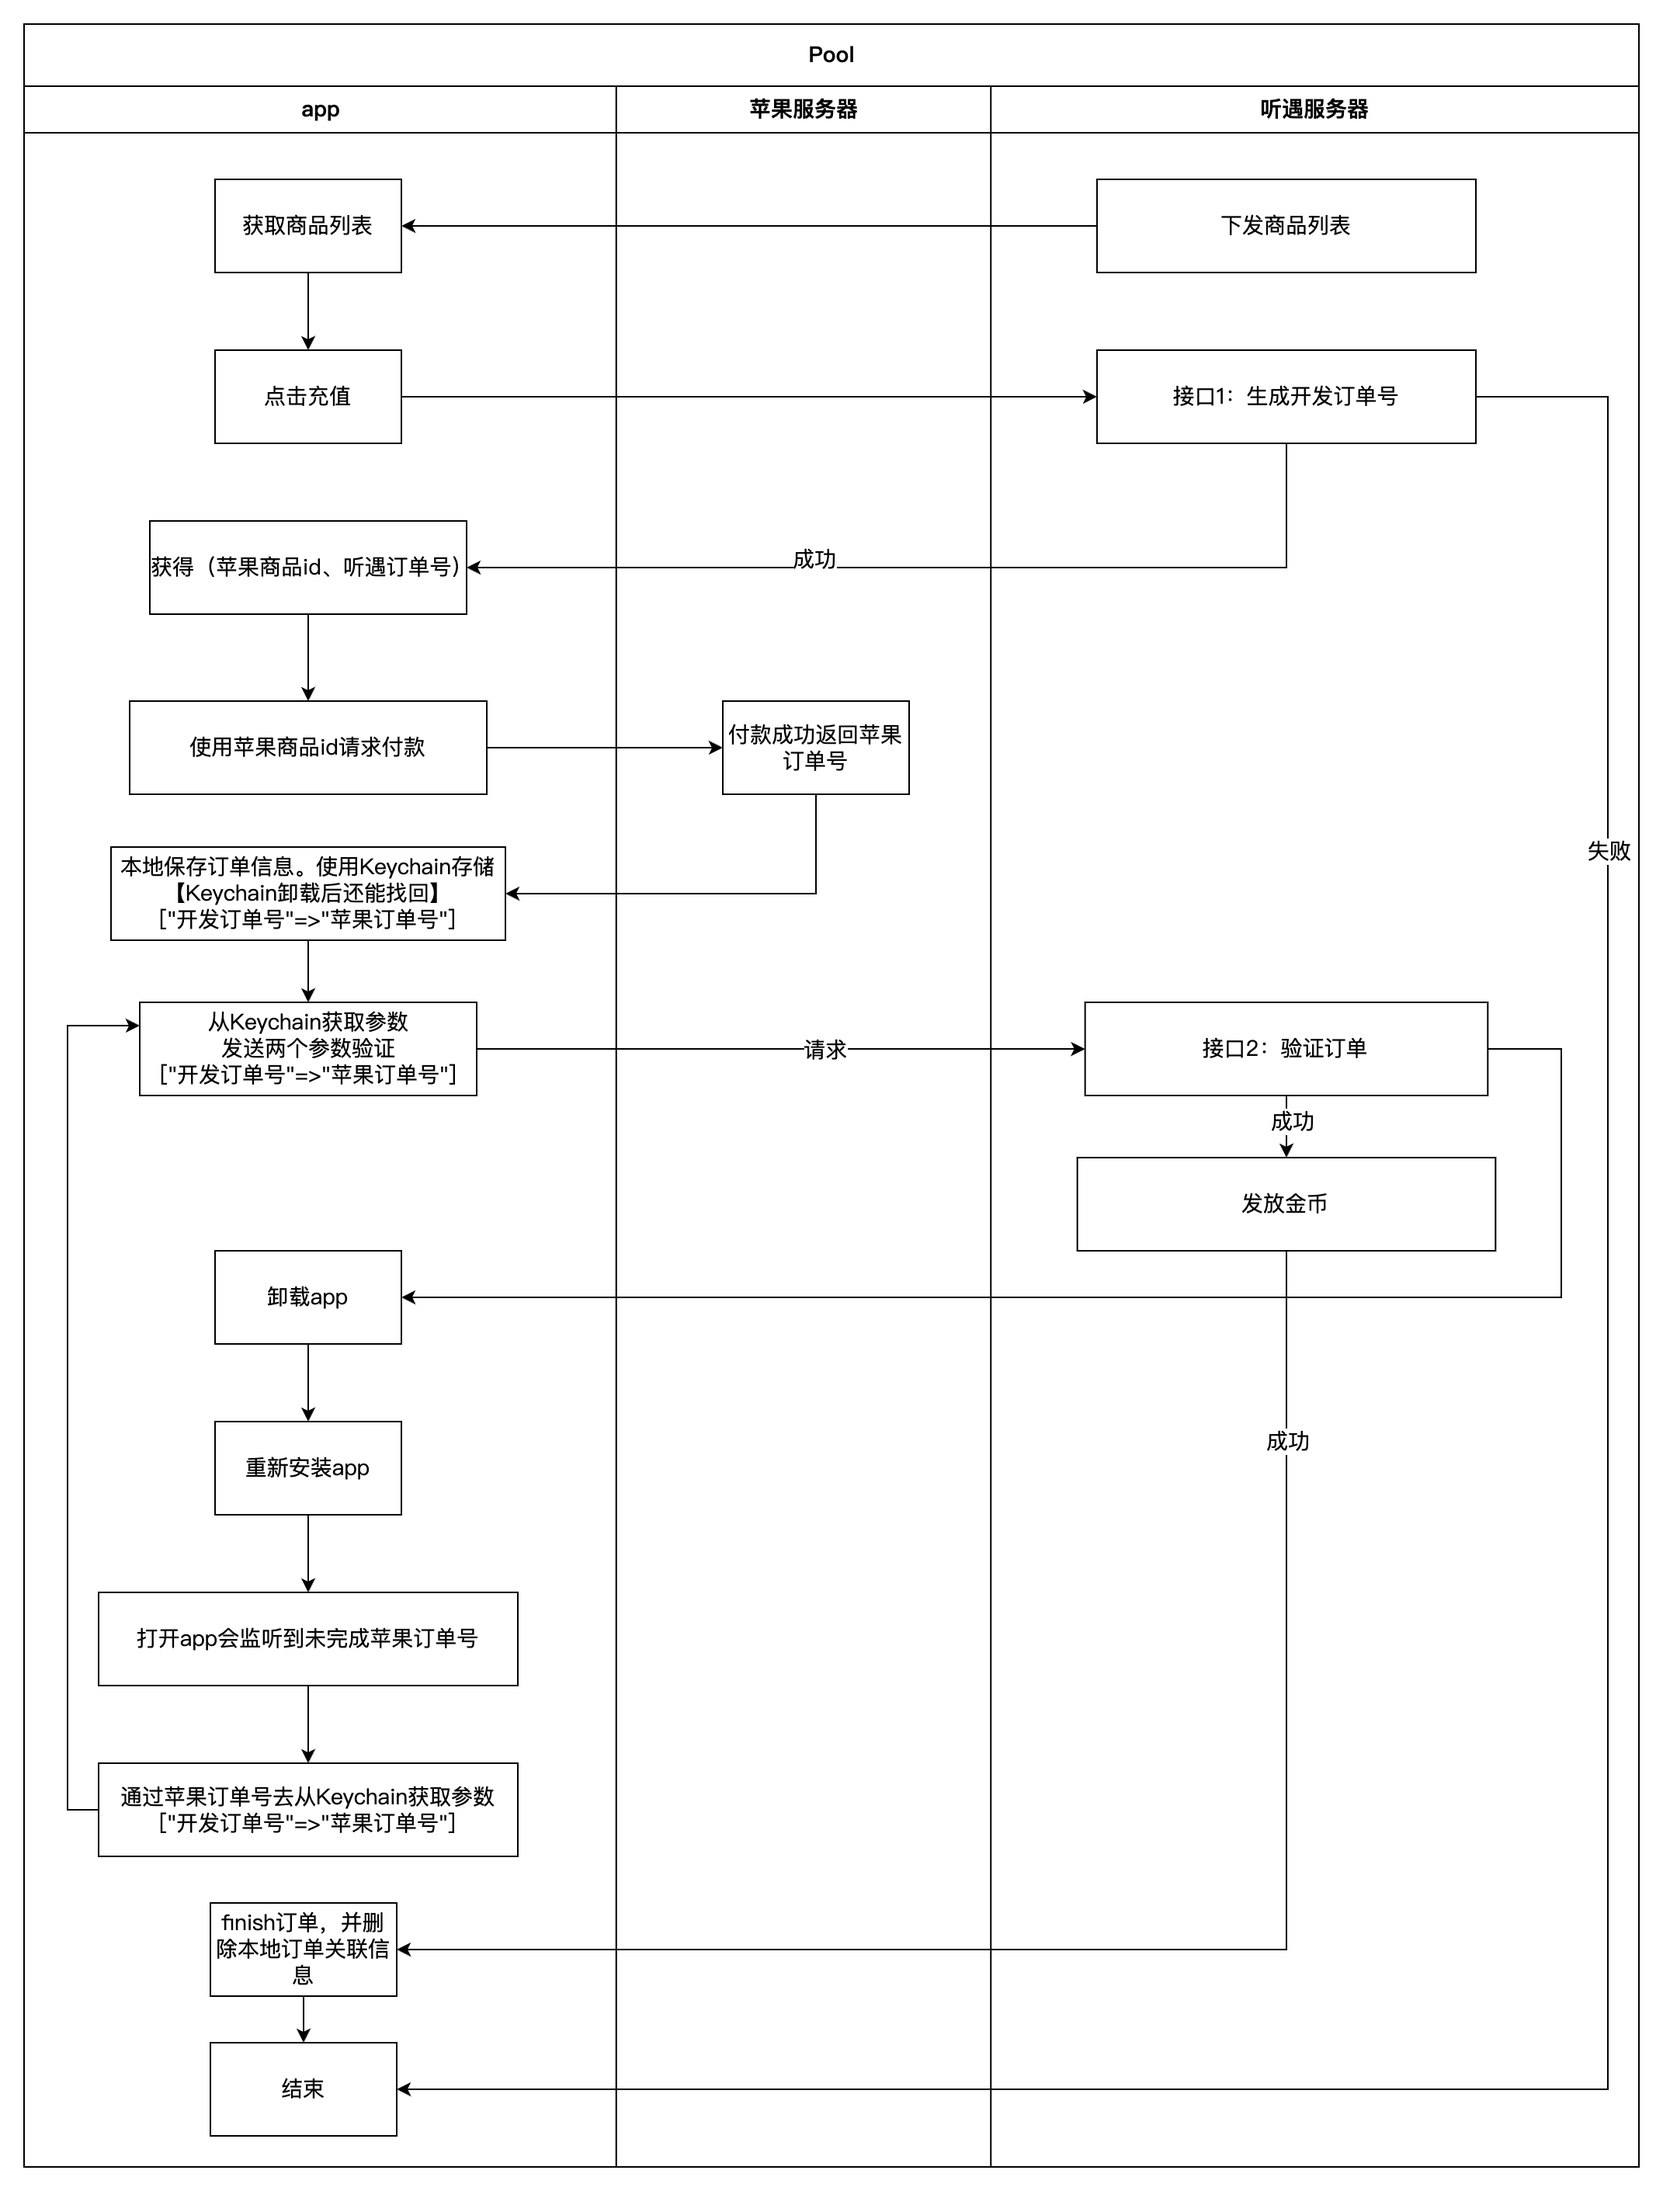
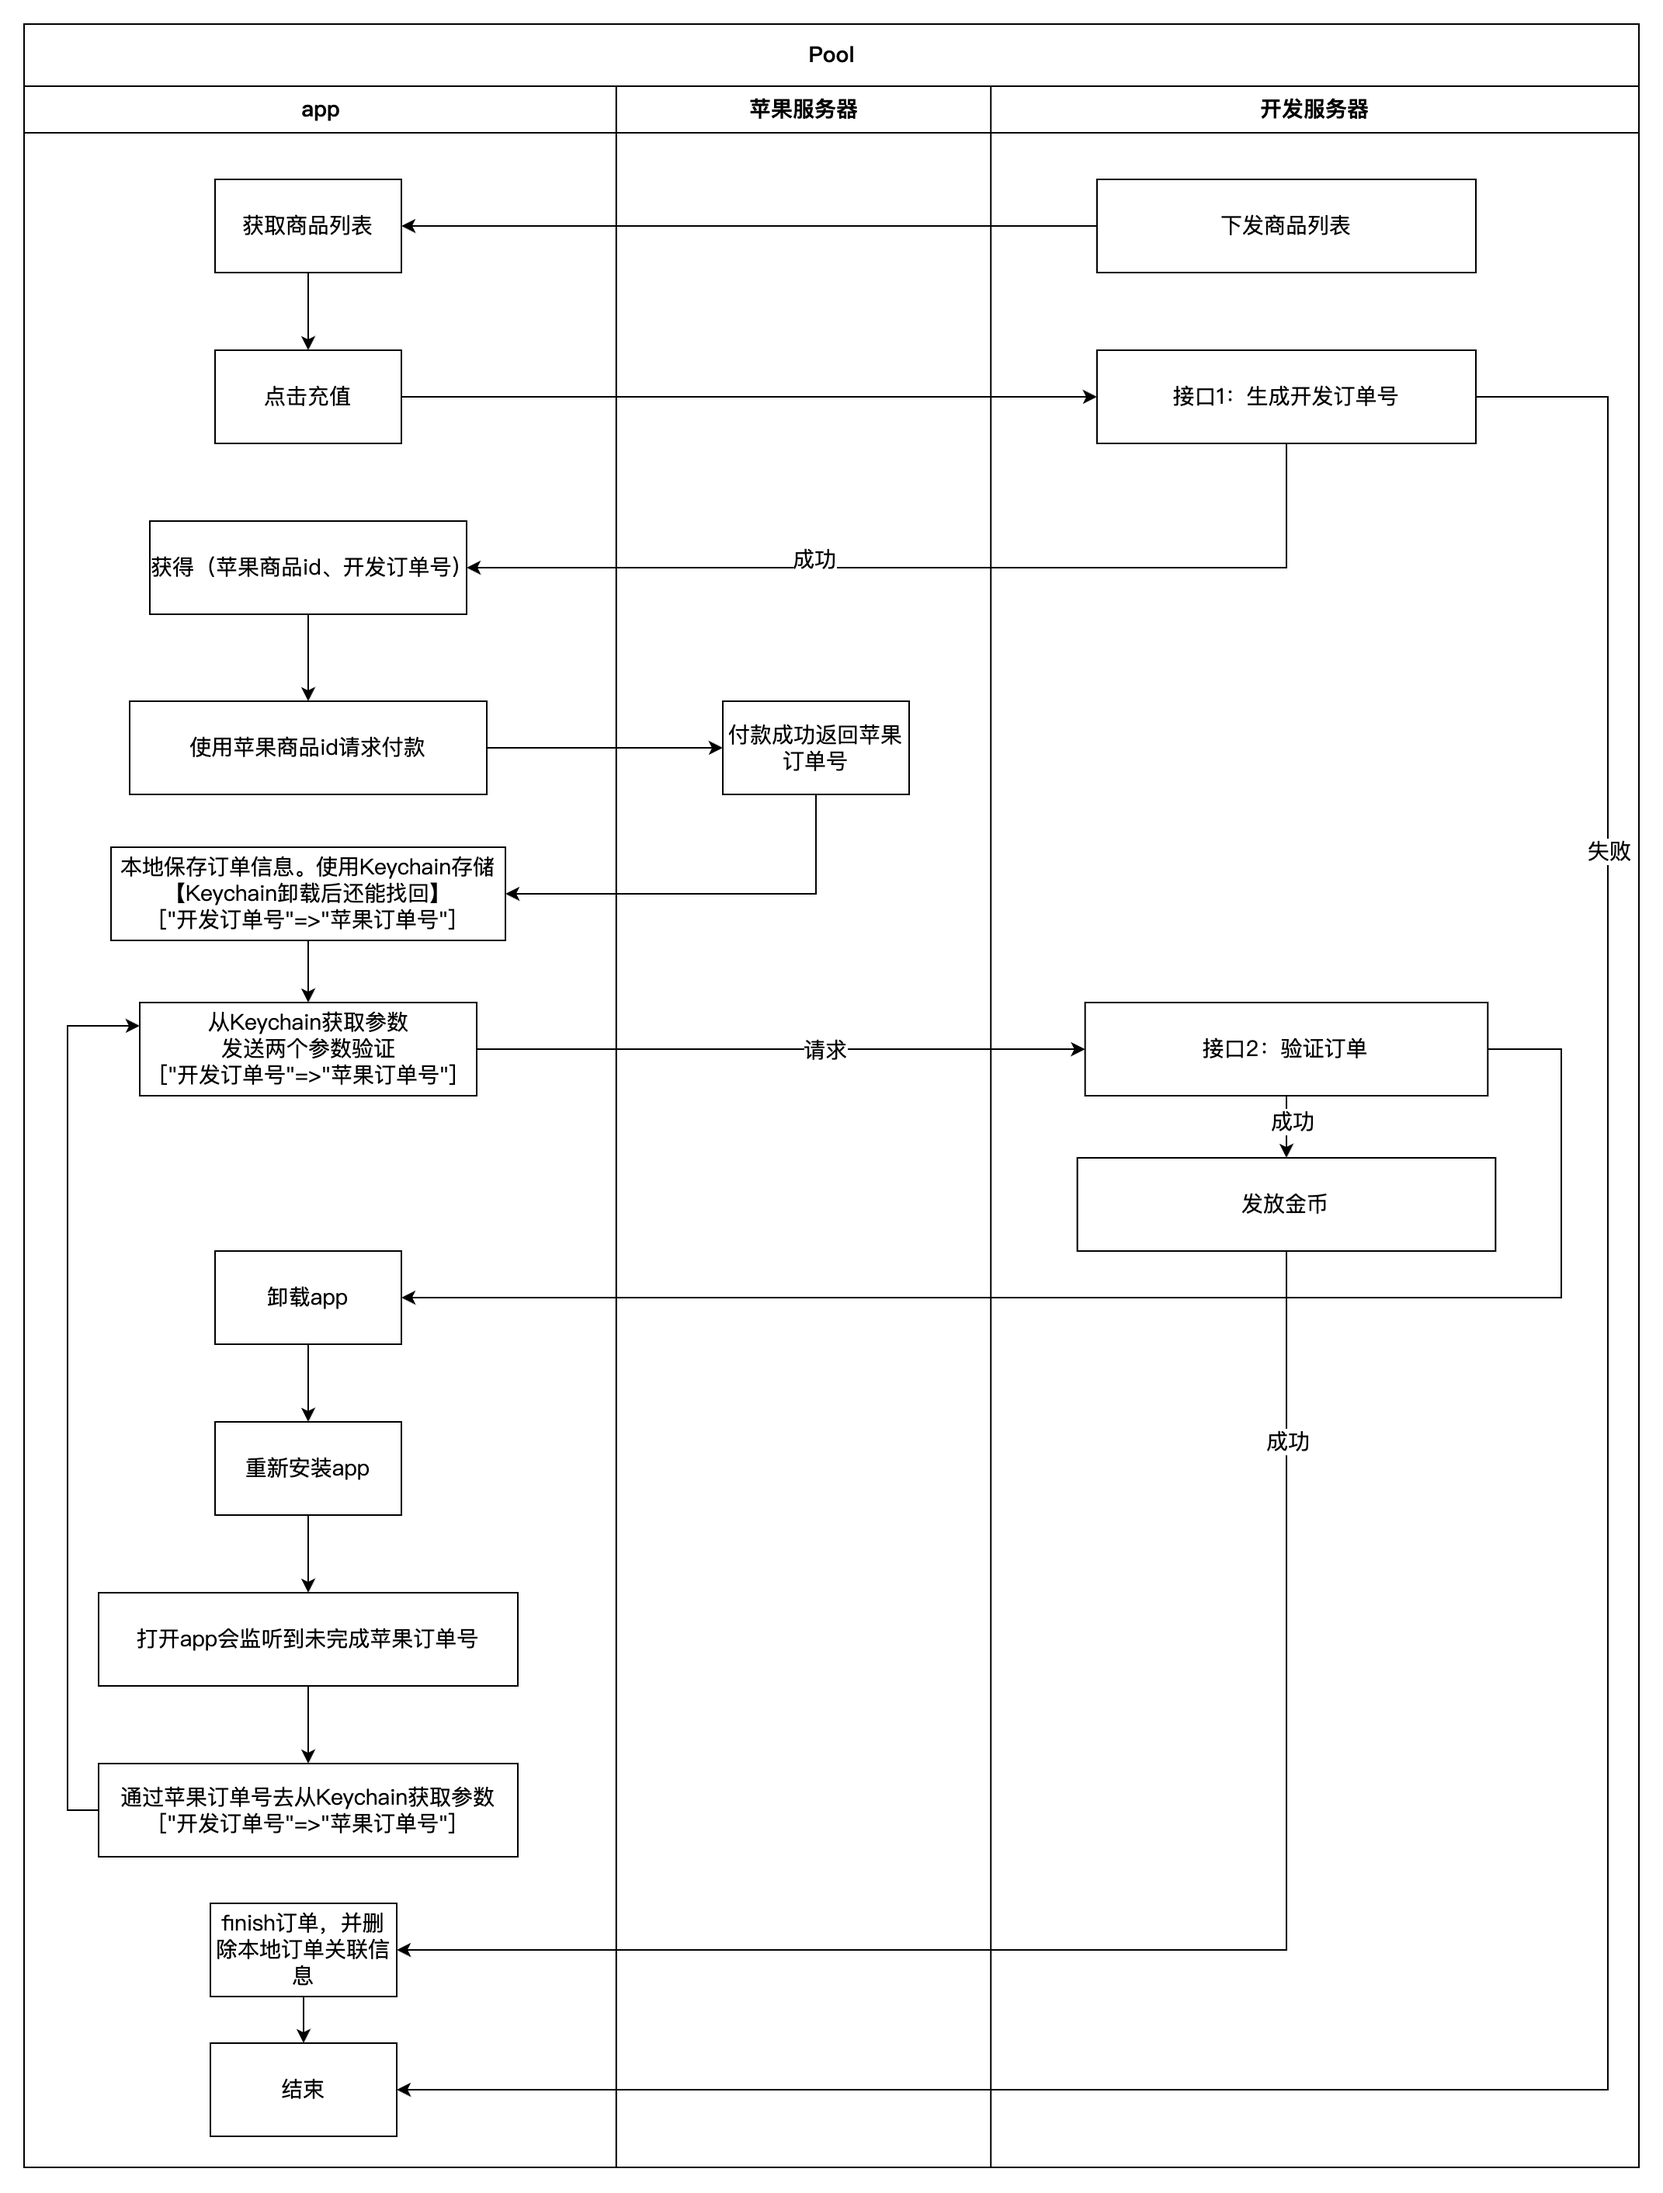
苹果内购

diff --git a/README.md b/README.md
@@ -51,9 +51,21 @@ $app = new History($config, true);
 $res = $app->getTransactionHistory('transactionId',[]);
 ```
 
-## 苹果内购流程图
+## 苹果内购流程图 【仅供参考】
 
+### 复杂版本的流程图
+
+注意：需要防挟持，因为由前端传入的订单号，如果苹果订单号泄漏，那么就会有人拿着你的订单号进行恶意验证，导致你的充值充值到别的账号里面
+优点：可以切换账号后，依旧验证原订单，充值的金币只会跟点击充值的账号绑定，并发放，不需担心切换单号丢失的问题
+缺点：开发复杂、切换手机依旧无法解决掉单问题
 ![avatar](./asset/img/inApp.png)
+
+### 简单版本的流程图
+
+注意：切换账号如未验证，则会验证成功，充值到别的账号上
+优点：开发简单，验证简单
+缺点：切换账号后，容易下发到别的账号上
+![avatar](./asset/img/inApp2.png)
 
 ## 文档
 
